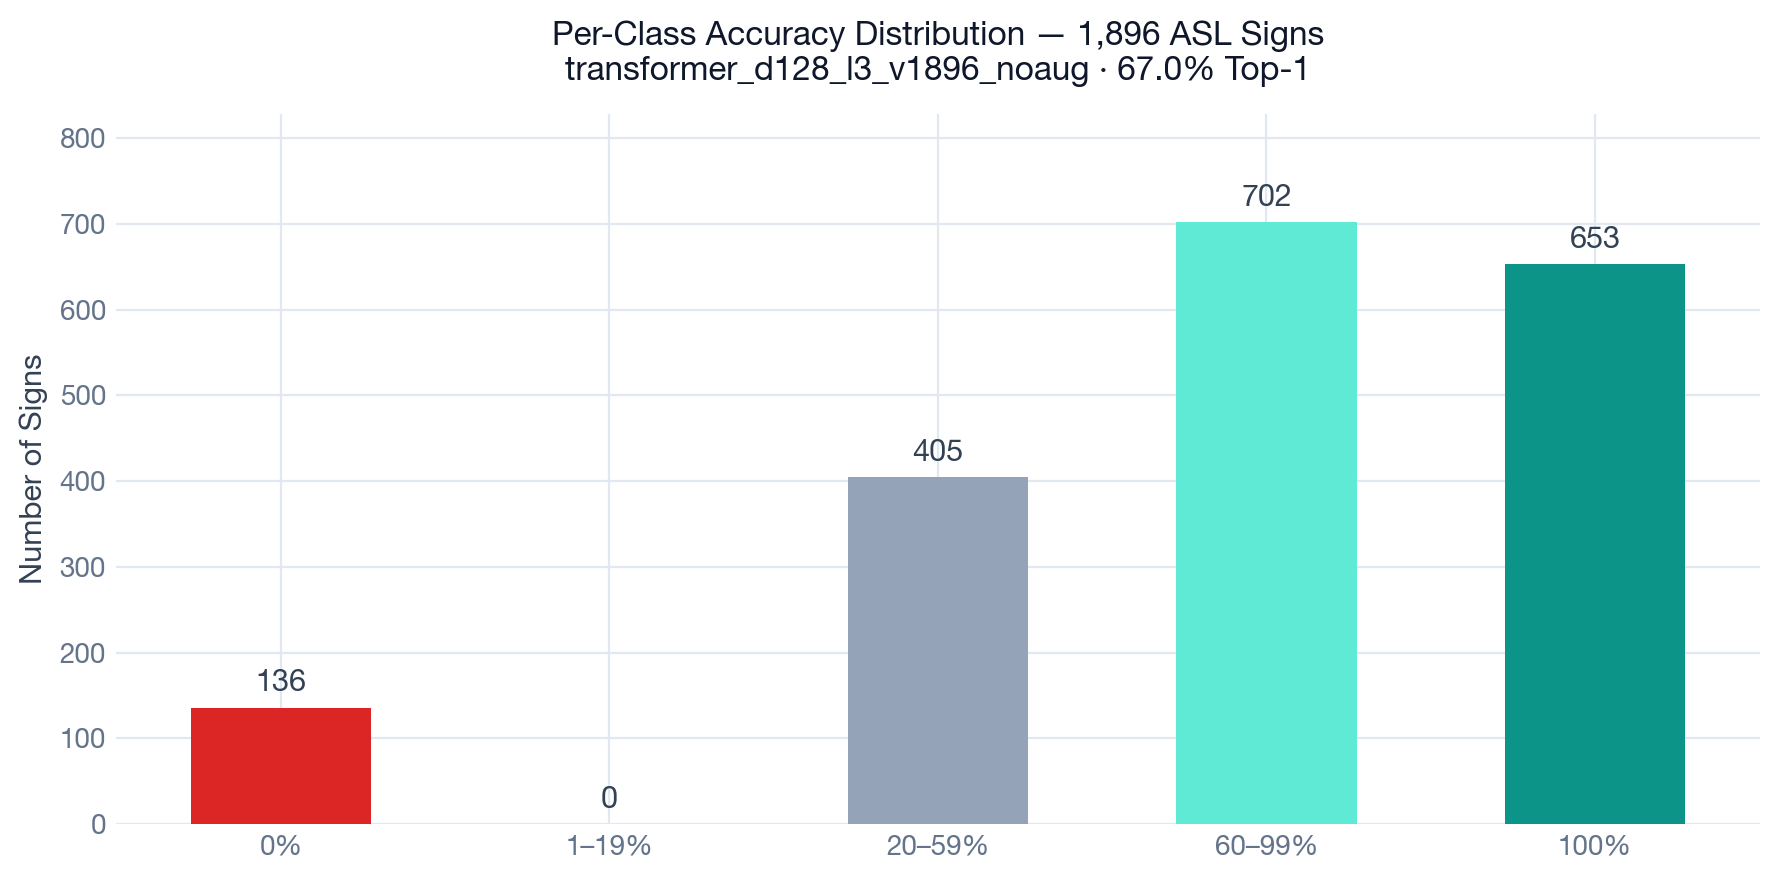
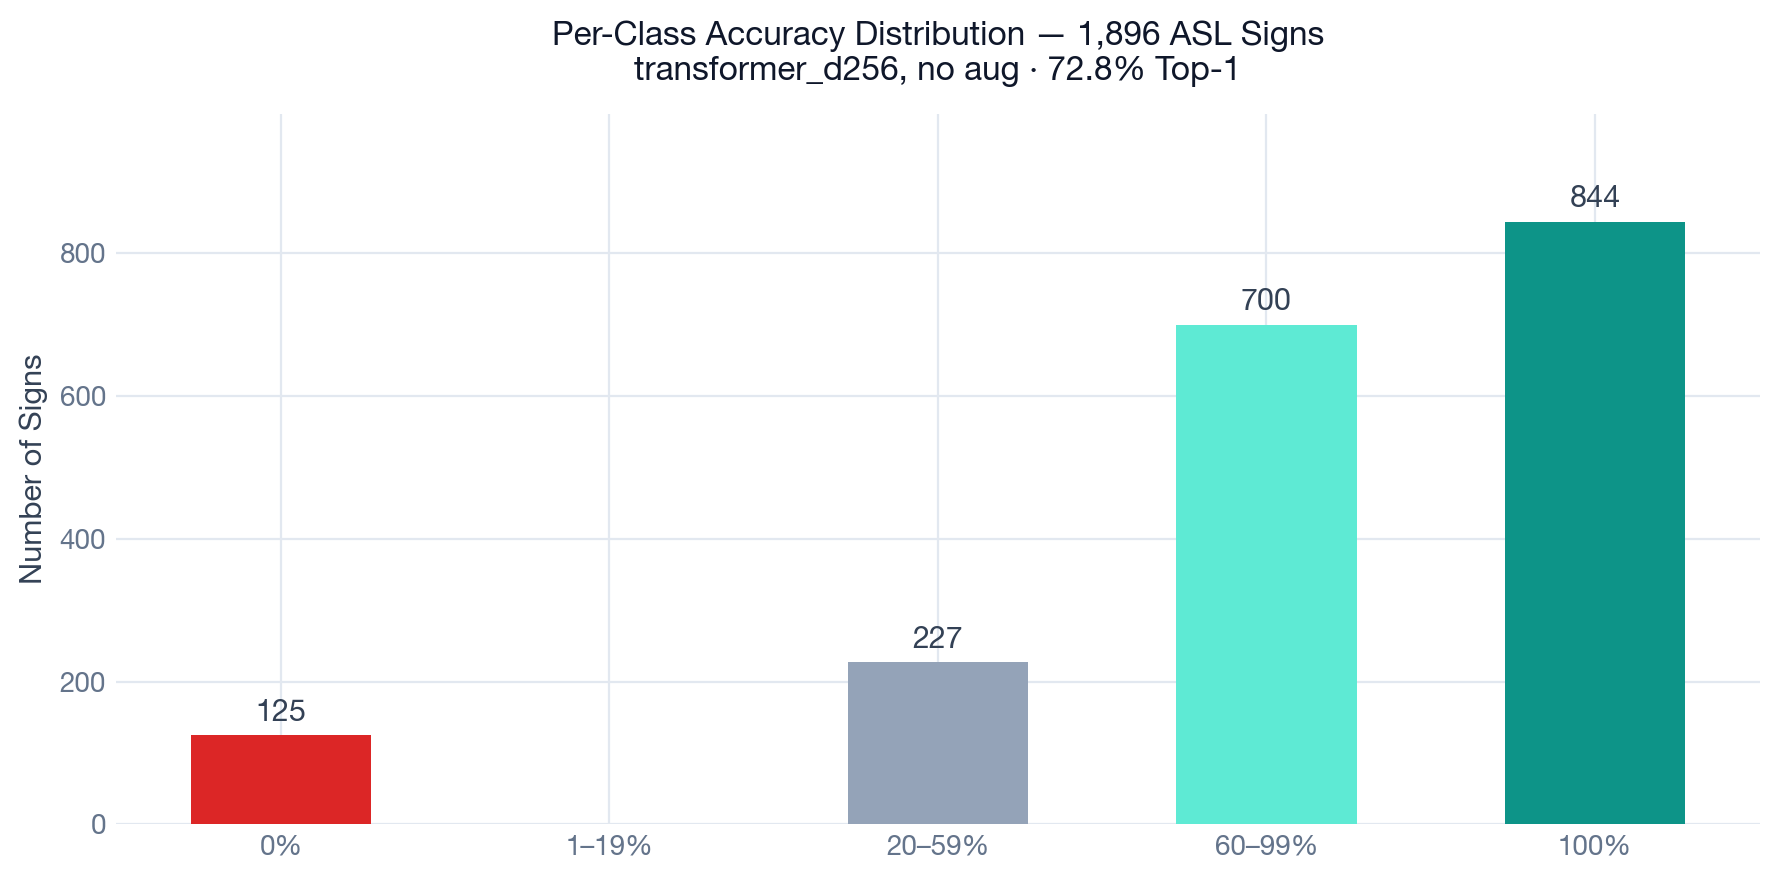
medium article updates

diff --git a/article/generate_figures.py b/article/generate_figures.py
@@ -129,35 +129,27 @@ def fig_augmentation():
 
 # ── Fig 3: Accuracy distribution ──────────────────────────────────────────
 def fig_accuracy_distribution():
-    # Load actual per-class data
-    with open("results/metrics/transformer_d128_l3_v1896_noaug_combined_per_class.json") as f:
-        per_class = json.load(f)
-
-    buckets = {"0%": 0, "1–19%": 0, "20–59%": 0, "60–99%": 0, "100%": 0}
-    for r in per_class:
-        a = r["accuracy"]
-        if a == 0:       buckets["0%"] += 1
-        elif a < 0.20:   buckets["1–19%"] += 1
-        elif a < 0.60:   buckets["20–59%"] += 1
-        elif a < 1.0:    buckets["60–99%"] += 1
-        else:            buckets["100%"] += 1
+    # d=256 no-aug model (72.8% Top-1) — distribution from ablation analysis
+    # 844 at 100%, 0 at 1-19% (precision gap), 700 at 60-99%, 227 at 20-59%, 125 at 0%
+    buckets = {"0%": 125, "1–19%": 0, "20–59%": 227, "60–99%": 700, "100%": 844}
 
     labels = list(buckets.keys())
     counts = list(buckets.values())
-    colors = [RED, AMBER, SLATE_500, TEAL_LIGHT.replace("CC","88"), TEAL]
     colors = ["#DC2626", "#F59E0B", "#94A3B8", "#5EEAD4", "#0D9488"]
 
     fig, ax = plt.subplots(figsize=(9, 4.5))
     bars = ax.bar(labels, counts, color=colors, width=0.55, zorder=3)
 
     for bar, val in zip(bars, counts):
+        if val == 0:
+            continue
         ax.text(bar.get_x() + bar.get_width()/2, bar.get_height() + 12,
                 str(val), ha="center", va="bottom", fontsize=11,
                 fontweight="600", color=SLATE_700)
 
     ax.set_ylabel("Number of Signs", fontsize=11)
     ax.set_title("Per-Class Accuracy Distribution — 1,896 ASL Signs\n"
-                 "transformer_d128_l3_v1896_noaug · 67.0% Top-1",
+                 "transformer_d256, no aug · 72.8% Top-1",
                  fontsize=12, fontweight="600", color=SLATE_900, pad=12)
     ax.set_ylim(0, max(counts) * 1.18)
     ax.tick_params(length=0)

diff --git a/article/medium_article.md b/article/medium_article.md
@@ -445,7 +445,7 @@ A few observations from this table:
 
 ![Per-Class Accuracy Distribution — 1,896 ASL Signs](figures/03_accuracy_distribution.png)
 
-For the best model (d=256, no augmentation):
+**Accuracy distribution across all 1,896 classes** (best model: d=256, no augmentation):
 
 | Accuracy range | Signs |
 |----------------|-------|
@@ -458,7 +458,7 @@ For the best model (d=256, no augmentation):
 
 Another ~700 classes sit above 60%. That's roughly 80% of the vocabulary performing well.
 
-The **125 zero-accuracy classes** are almost entirely a data problem. We examined them: nearly every zero-accuracy sign had fewer than 3 training examples. You can't learn a sign from 2 clips, regardless of how capable the model is. The ceiling isn't the architecture — it's the data. With more training examples for those rare signs, the number would drop significantly.
+The **125 zero-accuracy classes** are almost entirely a data problem. We examined them: nearly every zero-accuracy sign had fewer than 3 training examples. You can't learn a sign from 2 clips, regardless of how capable the model is. The ceiling isn't the architecture — it's the data.
 
 ### The vocabulary size effect
 
@@ -561,12 +561,50 @@ The hand detector — not the classifier — is the weakest link in the pipeline
 
 > **Watch below.** The overlay shows the hand skeleton in real time (navy = left hand, azure = right hand), a frame counter filling to 60, a hands-detected percentage, a confidence bar, and the predicted word centered on screen.
 
-**[▶ Watch the demo video](demo.mp4)**
-<!-- Upload to YouTube or Vimeo and replace this with an embed link -->
+**[▶ Watch the demo video](https://drive.google.com/file/d/1HVhxCz5sNoqvmhToBb7aJekgqqrpNhyh/view?usp=sharing)**
 
 **Model:** `transformer_d256_l3_v1896_noaug` | **Top-1:** 72.8% | **Latency:** 0.6ms | **Vocab:** 1,896 signs
 
 *Press Q to quit. Move your hand out of frame for ~1 second to reset between signs.*
+
+---
+
+## Our Biggest Pain Point: The Data Problem
+
+If there is one thing we want to be honest about in this writeup, it's this: **the data was harder than the model.**
+
+We spent more time fighting data problems — dead links, mismatched labels, inconsistent signers, disk space constraints, imbalanced class counts — than we spent on any model design decision. And in the end, the ceiling on our accuracy isn't set by the architecture. It's set by how much data we could collect.
+
+### The WLASL problem
+
+WLASL was supposed to be the foundation of our dataset. It's the most-cited academic ASL dataset — 21,083 video clips across 2,000 signs, published in 2020. When we tried to download it, **70% of the hosting links were dead.** YouTube videos removed. Vimeo accounts deleted. Six-year-old URLs pointing to nothing.
+
+We recovered 6,845 clips — 32% of what the paper describes. This is a reproducibility crisis that nobody in the community talks about loudly enough. Academic ASL datasets depend on external video hosting that has no commitment to permanence. Every year that passes, more links die.
+
+### 28 samples per class is not enough
+
+Even with three aggregated datasets and 52,998 training clips, we averaged **28 examples per class**. For comparison: ImageNet, the benchmark dataset for image classification, has ~1,300 examples per class. For speech recognition, datasets routinely have thousands of utterances per word.
+
+28 is the minimum we could work with — and only because of careful architectural choices (WeightedRandomSampler, MAE pre-training, label smoothing). Even then, 125 signs had so few examples that the model learned nothing about them at all.
+
+### The signer diversity gap
+
+Our dataset is not diverse. WLASL, ASL Citizen, and ASLense all draw from a limited pool of signers — mostly younger adults, relatively uniform lighting conditions, limited camera angles. Real ASL varies significantly across:
+
+- **Age** — children and elderly signers have very different signing styles
+- **Regional variation** — ASL has regional dialects; the same word can look quite different in different cities
+- **Handedness** — left-handed signers produce mirror images of the canonical training examples
+- **Signing speed** — fluent signers compress and co-articulate in ways isolated-sign datasets never capture
+
+Our model hasn't seen any of this variation. When it fails on a real user, it's often because that user doesn't sign the way the training data does.
+
+### Why this is hard to fix
+
+The obvious answer — collect more data — runs into a fundamental bootstrap problem. The communities that sign ASL fluently are the communities that would benefit most from ASL tools. But large-scale data collection requires coordination, compensation, annotation infrastructure, and institutional support that most academic projects don't have. 
+
+ASL Citizen (from Google) is a model for what this can look like at scale. More efforts like it are the path forward. But until the field treats ASL data collection with the same seriousness it treats model design, the ceiling will keep being set by data rather than architecture.
+
+> The model we built is as good as the data we had. With 10× more data and real signer diversity, 72.8% becomes a floor, not a ceiling.
 
 ---
 
